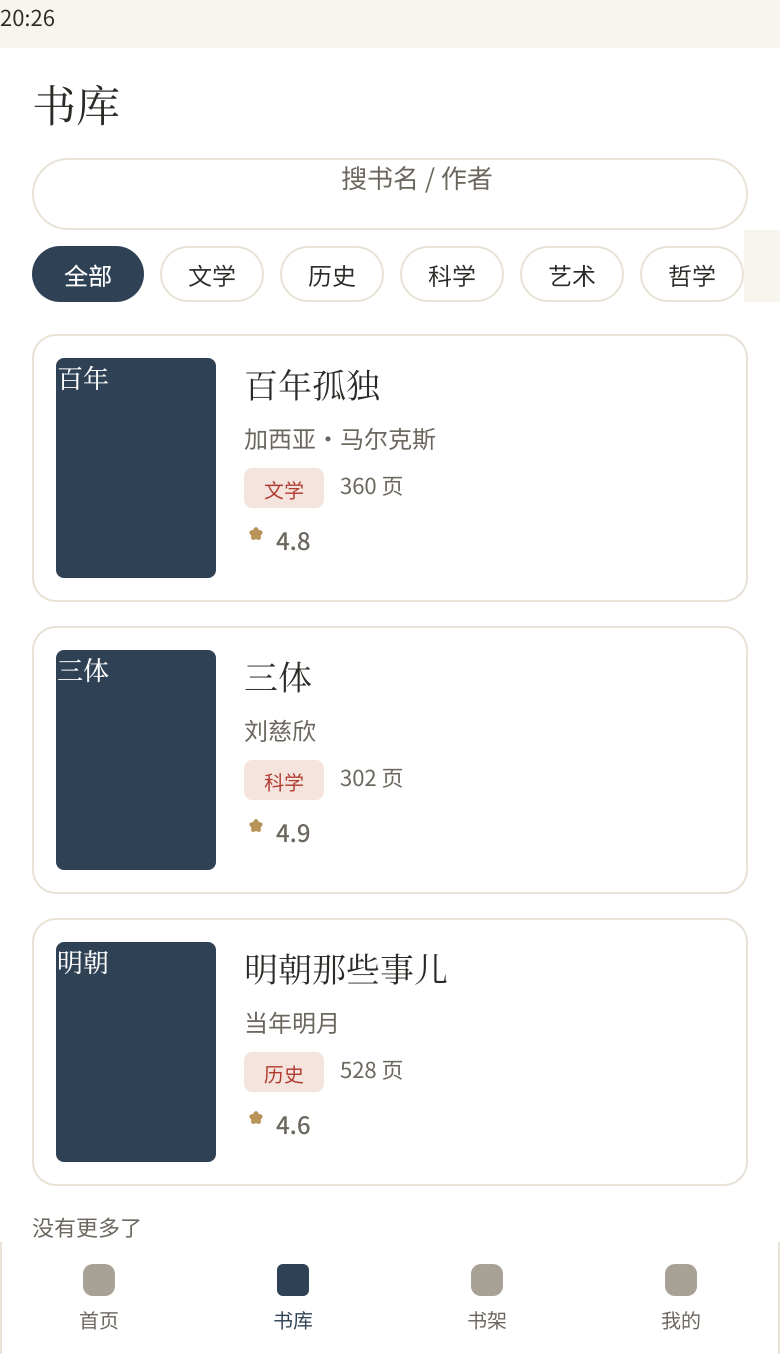
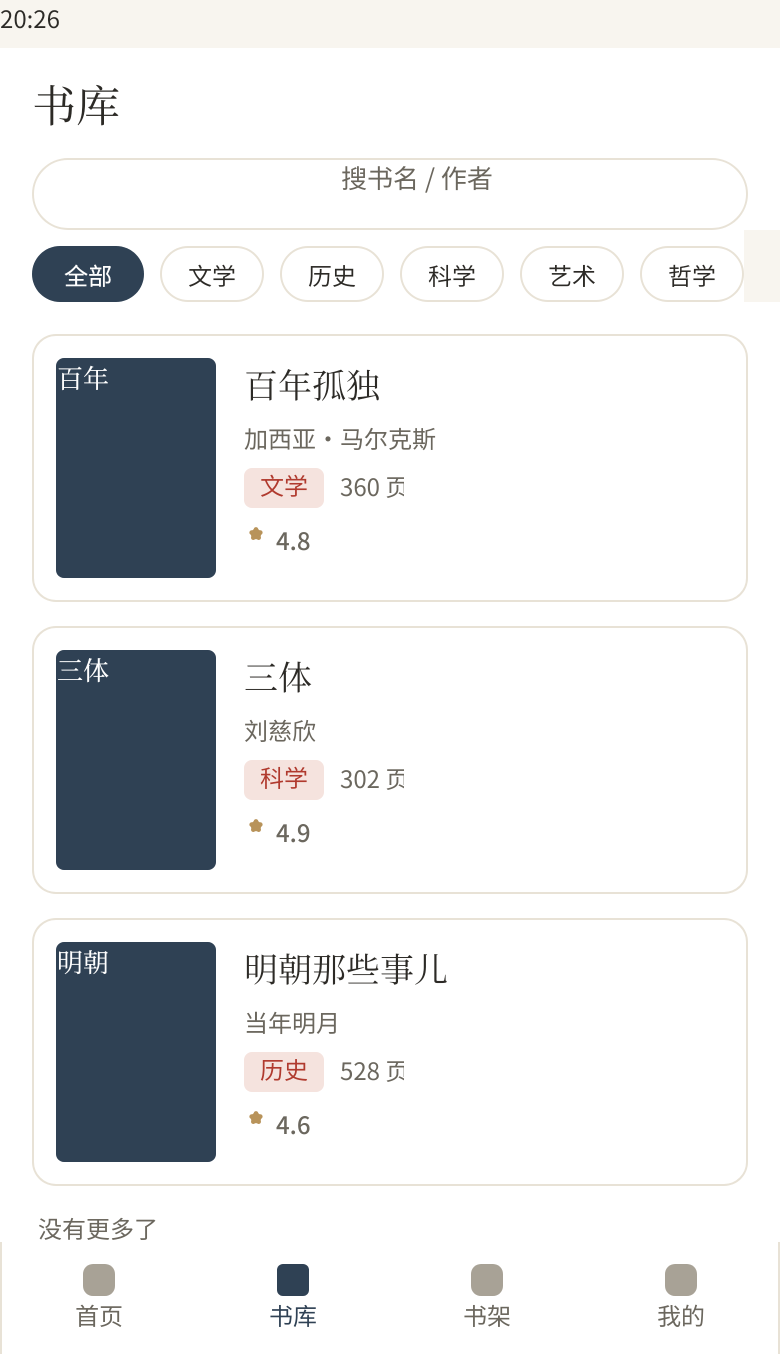
design(boards): lee 二轮追加整改——字体警告 182 清零+排版居中六族深修
- min-text-size 全档升 12px（11px×135+10px×30+9px×17）+文字框比例补偿，lint 终态 0 errors 0 warnings
- auto=NONE 固定框截字全档按需加宽（出版社/标签/评分等）
- 板3 深修：正文 32px 两字换行→342 满宽三行、简介卡 hug 连锁压 60 宽→重建 390x131、返回键 x173→16+标题居中、操作栏吸底+裁板 1334→620
- 板 3/4/6/7/8 五板统一裁板：内容悬空 319-860 清零，贴底元素+16 安全区
- 板1：四 sec 卡宽统一 342+padding16+圆章贴边裁切修复+说明文字折行+文案改实数（17 token/两族四档）
- 板10 成果卡内容列居中 5 处；全档「·」中点间隔符 11 处清空格
- OP 坑谱+2：autolayout 子级坐标赋值静默被吞（冻结 layoutMode 才可写）；appendChild 不重排已在树内节点

diff --git a/task-cards/20261102-002-design-museum-s2-ui.md b/task-cards/20261102-002-design-museum-s2-ui.md
@@ -95,3 +95,17 @@
 - **双轨范围升格（lee 指令「两侧全部页面都要做才能对比出效果」）：3 板 → 9 板全量**——Pencil 侧补 6 板（视觉方向/书库/详情/计时/我的/统计）全部一次跑成，导出断言目检全绿；净耗时 4-8 分钟/板（复用熟后与 OP 比肩）
 - 新增板 10 计时三态（OP）：02 §5.1 状态机四态的画板落（ready/paused/result 三屏联板+成果弹层纸笺卡），02 文档画板引用已更新 board01-10
 - 全部数据进 `dualtool-compare.md`（六维度表 17 行齐+夜二记录节）；museum.fig lint 104err/182warn 核明=色板样张对比度+层名类工程噪声，零真实缺陷
+
+### 进度｜ design ｜ 2026-11-02 夜三（museum.fig 质量整改——lee「这一版有点太差了」全量处置）
+- **lint error 104→0 六轮归零**（182 warnings 维持=min-text-size 小字号提示，字号体系不动）：内容精确修色 30+层名内容化 356+全档 ink-3→ink-2 升档 43+夜底/印底无条件补实底
+- **布局五族修复（逐板目检定位）**：A 进度条轨道/填充分离两行 6 处（填充移入轨道 HORIZONTAL 叠放）/B 柱图列错位 7 列（固定高 130 底对齐）/C 月历断行 35 格（42→38+行距 4）/D 弹性挤占 20 处 layoutGrow/E 环内文字丢渲染（text 提升平级+删干扰 RECT）
+- **板 2/9/10 深修**：板 2 书卡列表 247→390 铺满+三卡锁宽 358+画板 1480→677 裁空悬；板 9 侧栏 7 菜单白底白字不可见 bug+Logo 截断+文案中点违规；板 10 态标米白底被 18% 半透明渲染改纯文字标注+主体补夜底+按钮统一
+- **事故一起**：fills=[] 空数组毒化源档（eval/export 读入链崩）——git 回退+9 修复脚本按序重放复原（回执逐项与原轮一致），后续无填充一律 opacity:0 SOLID；OP 新坑三条进 097 报告坑面表
+- 10 板全量重导出+逐板复验（zai 判读+像素级取样交叉）；提交 73f9a16a（museum 仓）+6faccca（jnpf-apps 脚本）
+
+### 进度｜ design ｜ 2026-11-03 凌晨（lee 追加两条指令：字体警告清零+逐页排版居中复查）
+- **min-text-size 182 条清零**（lint 终态 0 errors / 0 warnings / 406 info）：全档 11/10/9px→12px 升档+文字框按比例补偿
+- **居中与排版深修（lee「好几个页面的布局和居中的细节还是有问题」）**：
+  - 结构级审计（全档 356 TEXT 坐标）+逐板像素取证，真问题六族：①auto=NONE 固定框截字（出版社「重庆出」等，全档按需加宽修复）②板3 简介正文框 32px 两字换行+简介卡被 hug 连锁压成 60 宽（重建 390x131）③板3 返回键悬在 x173/标题不居中+操作栏悬空不吸底（冻结布局重钉+五板统一裁板：3/4/6/7/8 板高收到贴底元素+16，内容悬空 319-860 一并清）④板1 四 sec 卡宽 340/259/342/318 不齐→统一 342+padding16+圆章贴边裁切+说明文字越界折行+文案改实数（色板 17 token/字体两族四档）⑤板10 成果卡内容列整体左偏→居中 5 处⑥全档「·」中点间隔符 11 处清为空格（人名点保留）
+  - OP 新坑两条：autolayout 子级 x/y 赋值静默被吞（冻结 layoutMode=NONE 才可写）；appendChild 不重排已在树内节点（调序须冻结布局）；VERTICAL hug 容器连锁收缩（简介卡 390→60 实录）
+  - 板3 终验四项全过（导航/正文/展开/贴底），10 板全量重导+lint 0/0
